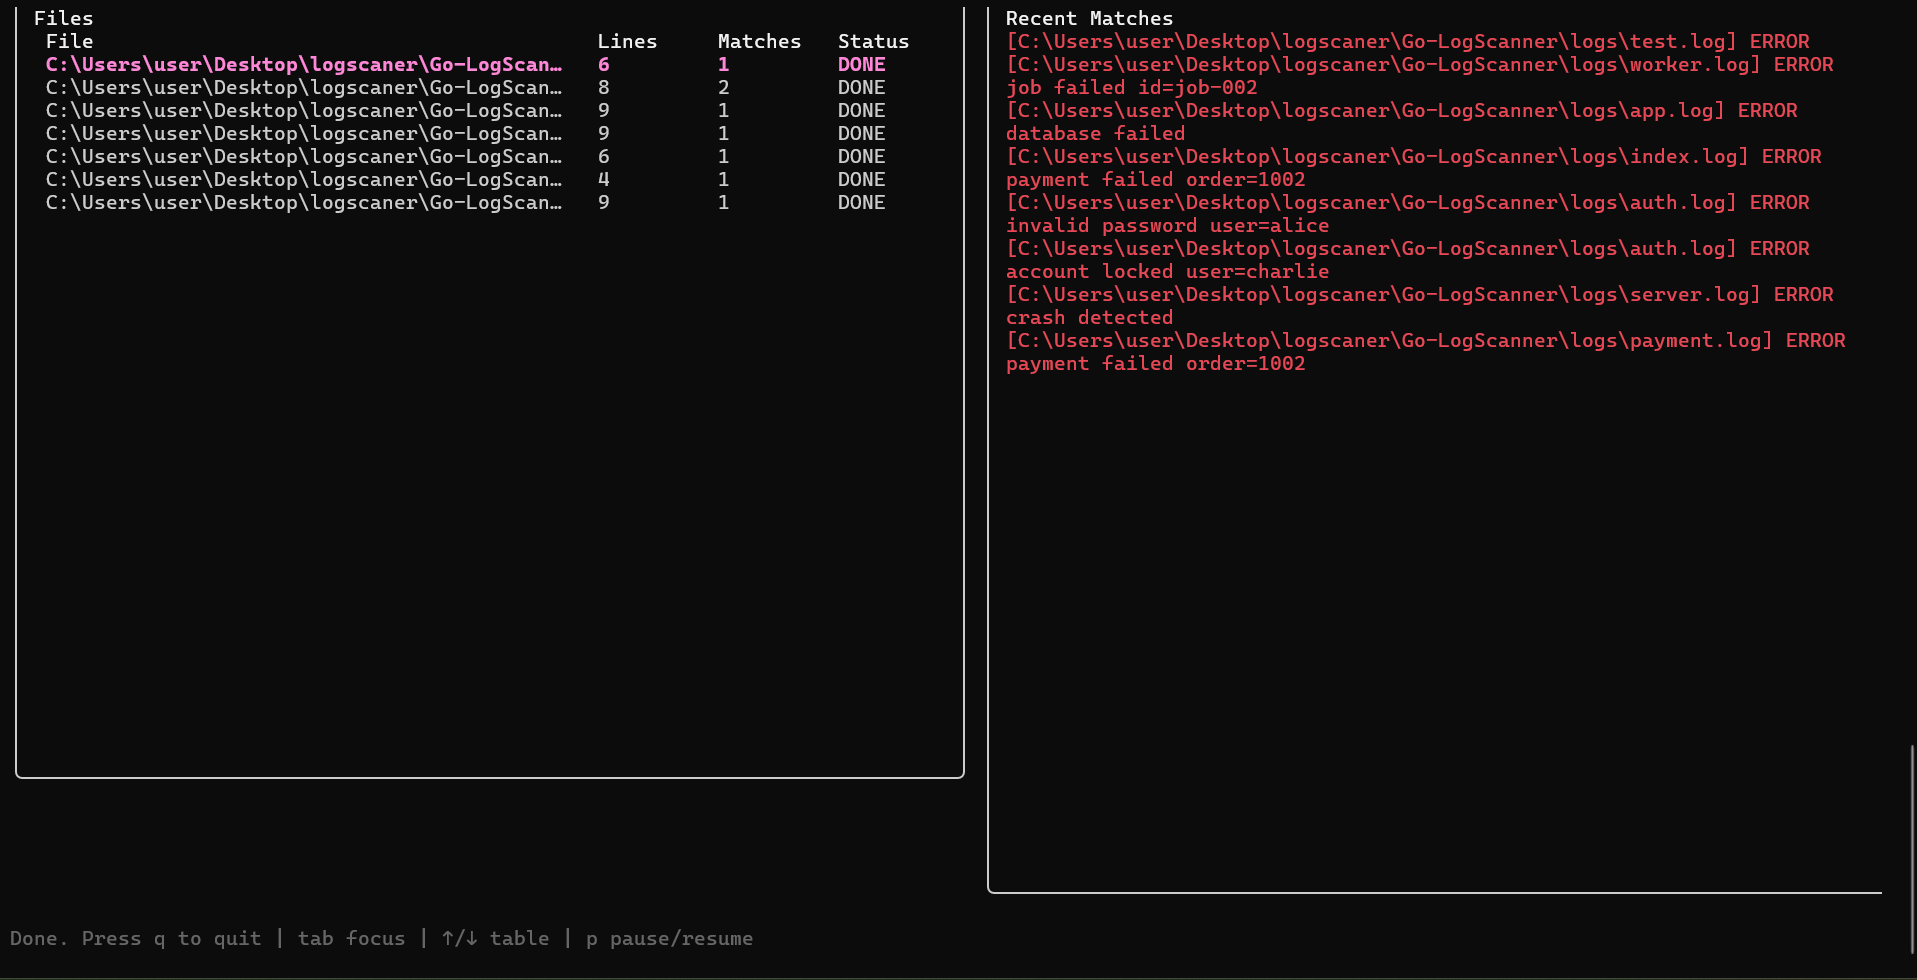
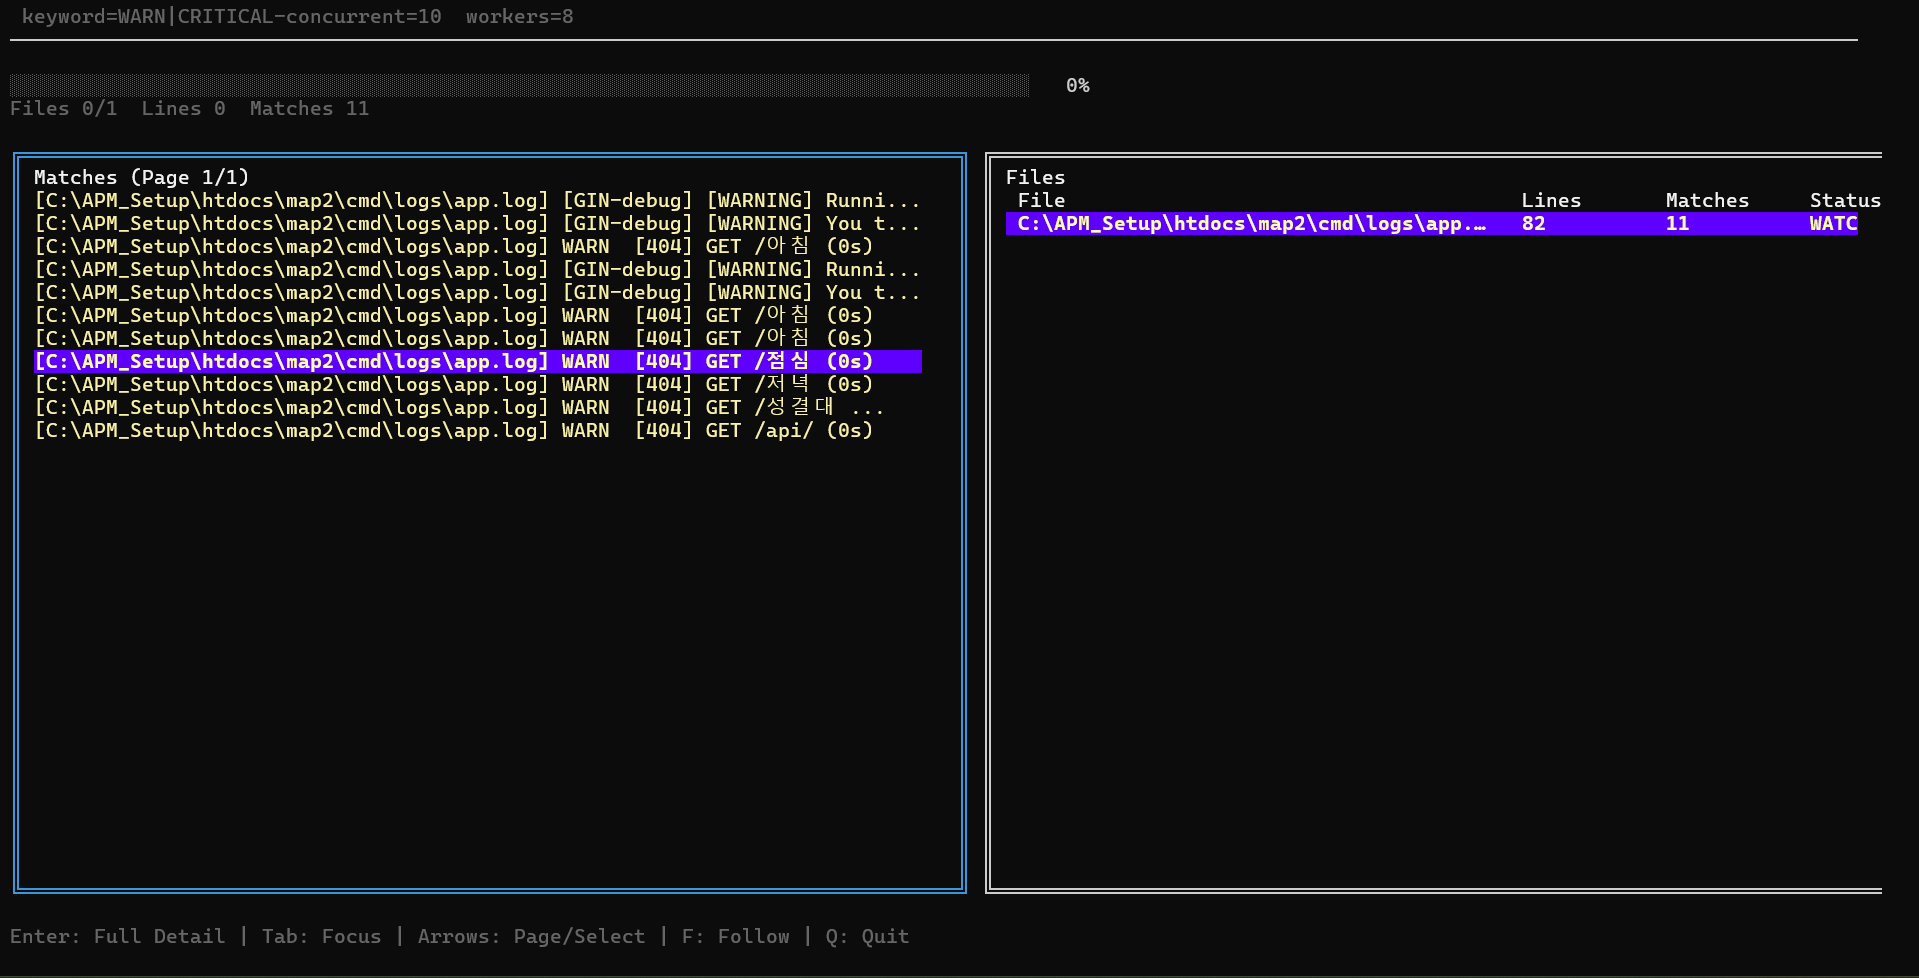
읽어줘 수정하고 사진도 바꾸고

Changed region(s): [[0.0, 0.0, 1.0, 0.9509], [0.0308, 0.9509, 0.4617, 0.9816]]

diff --git a/README.md b/README.md
@@ -2,7 +2,7 @@
 
     병렬 처리 기술을 활용한 고성능 TUI 로그 분석 대시보드
 
-Go-LogScanner는 다수의 로그 파일을 고루틴 워커풀(Worker Pool)로 병렬 스캔하고, 정규식 기반의 패턴 매칭 결과를 실시간 TUI(Terminal User Interface) 화면으로 제공하는 CLI 도구입니다. 대용량 파일도 안정적으로 처리할 수 있는 스트리밍 설계가 특징입니다.
+LogScanner는 다수의 로그 파일을 고루틴 워커풀(Worker Pool)로 병렬 스캔하고, 정규식 기반의 패턴 매칭 결과를 실시간 TUI 화면으로 제공하는 CLI 도구입니다. 대용량 파일도 안정적으로 처리할 수 있는 스트리밍 설계가 특징입니다.
 
 ✨ 핵심 기능 (Key Features)
 
@@ -20,9 +20,9 @@ Go-LogScanner는 다수의 로그 파일을 고루틴 워커풀(Worker Pool)로 
 
 📊 3. 실시간 TUI 대시보드
 
-    진행 상황 시각화: 전체 파일의 스캔 진행률(Progress bar)과 처리 통계를 한눈에 확인합니다.
+    지속적 감시: 파일을 한 번 읽고 끝내는 것이 아니라, tail -f와 같이 파일 끝에 새롭게 추가되는 로그를 즉시 감지하여 화면에 반영합니다.
 
-    실시간 매칭: 정규식에 매칭된 최근 로그를 하단 'Recent Matches' 영역에 실시간으로 출력합니다.
+    Follow 모드: 새로운 로그가 발생할 때    자동으로 최신 페이지의 마지막 줄로 화면을 이동시켜 실시간 상태를 놓치지 않게 도와줍니다.
 
 ⚖ 4. 정밀한 제어 및 무결성
 
@@ -43,7 +43,9 @@ Go-LogScanner는 다수의 로그 파일을 고루틴 워커풀(Worker Pool)로 
 Bash
 
 git clone https://github.com/qqqqdh/Go-LogScanner.git
+
 cd go-logscanner
+
 go build -o logscanner ./cmd/logscanner/main.go
 
 실행 명령어 (Usage Examples)
@@ -52,25 +54,36 @@ go build -o logscanner ./cmd/logscanner/main.go
 Bash
 
     ./logscanner -path="./logs/*.log" -keyword="ERROR"
-![alt text](image-1.png)
-
+![alt text](image.png)
 2. 고성능 모드 (병렬 워커 수 지정)
 Bash
 
     ./logscanner -path="./logs/*.log" -keyword="WARN|CRITICAL" -concurrent=10
-![alt text](image.png)
+![alt text](image-1.png)
 3. 대시보드 출력 개수 조절
 Bash
 
     ./logscanner -path="./logs/*.log" -keyword="FATAL" -tail=50
-![alt text](image-2.png)
+    ![alt text](image-2.png)
 
 명령어 옵션 (Flags)
 옵션	설명	기본값
--path	로그 파일 경로 (와일드카드 지원)	./logs/*.log
--keyword	검색할 정규표현식 또는 키워드	ERROR
--concurrent	동시에 처리할 최대 고루틴 수	CPU 코어 수
--tail	대시보드에 유지할 최근 매칭 라인 수	20
+
+    -path	로그 파일 경로 (와일드카드 지원)	./logs/*.log
+
+    -keyword	검색할 정규표현식 또는 키워드	ERROR
+
+    -concurrent	동시에 처리할 최대 고루틴 수	CPU 코어 수
+
+    -tail	대시보드에 유지할 최근 매칭 라인 수	20
+실시간 조작키
+
+    p   전체 스캔 및 분석 작업 일시정지 / 재개
+    q  프로그램 종료
+    Tab 포커스 이동 - 로그 박스(왼쪽) ↔ 파일 목록 박스(오른쪽) 포커스 전환
+    ← / →   이전 페이지 / 다음 페이지로 이동
+    ↑ / ↓	현재 페이지 내 로그 줄 선택 이동 / 테이블 행 이동
+    F	Follow 모드 활성화 (새 로그 발생 시 자동으로 마지막 페이지 추적)
 
 👨💻 개발 의도 (Intern Appeal)
 
